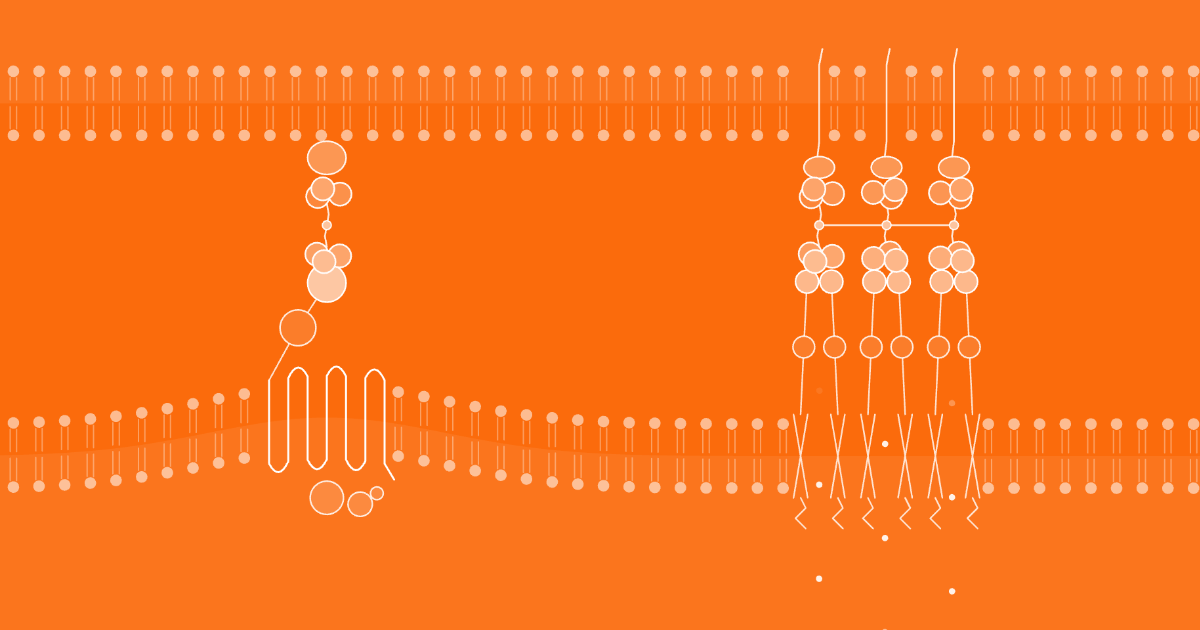
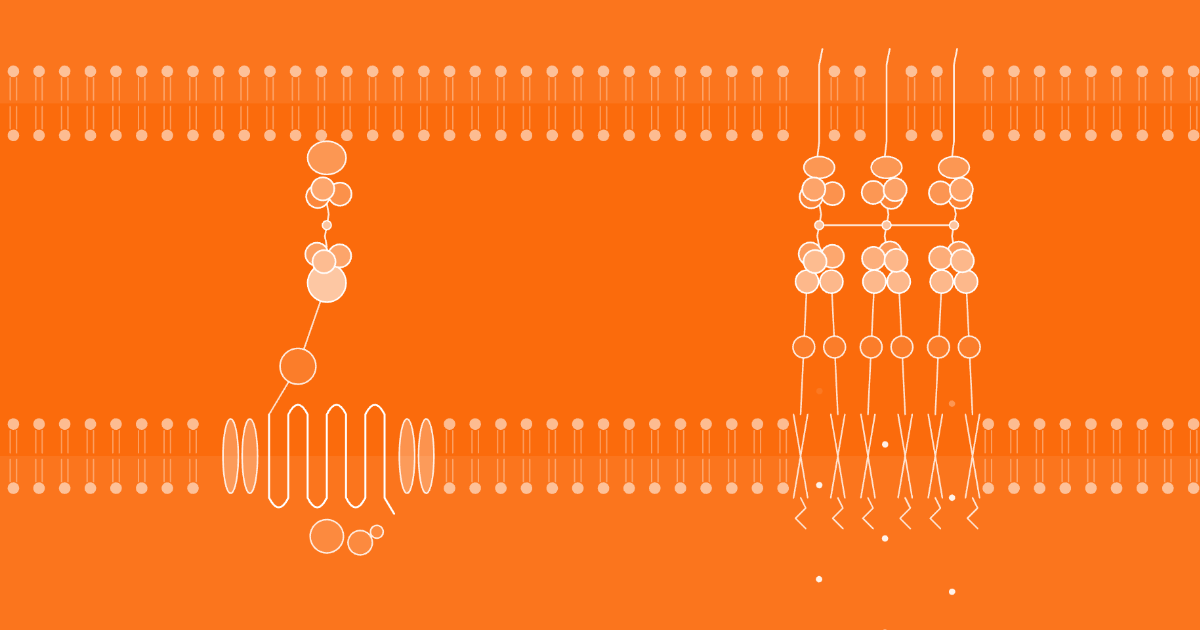
Show the aGPCR aligning the postsynaptic membrane and gathering membrane proteins instead of pulling it.

Changed region(s): [[0.0308, 0.4825, 0.5242, 0.9048]]

diff --git a/index.html b/index.html
@@ -361,7 +361,7 @@
                         <p>Currently, I work on the structure and function of complement component 1q-like (C1QL) proteins, which help neurons in the brain form and maintain the chemical junctions between them. My work in the Ressl lab aims to understand how these proteins assemble into the complexes that engage their receptors which are genetically linked to schizophrenia, bipolar disorder, and addiction. Because so many approved drugs act on this family of receptors, a structural picture of this interaction could point toward new treatments for psychiatric disorders that remain difficult to manage.</p>
                         <figure>
                             <canvas class="figure" data-anim="c1ql" aria-hidden="true"></canvas>
-                            <figcaption><span class="fig-label">Figure 1.</span> <span class="level"><button type="button" data-level="plain" aria-pressed="true">plain</button> / <button type="button" data-level="tech" aria-pressed="false">technical</button></span> <span class="plain">Left, a close-up of the chemical junction called a synapse boxed at right, where the end of one neuron meets the start of another. <span class="cue" data-cue="c1ql-ligand">C1QL proteins freely exist in the junction and anchor both sides of the junction through velcro proteins.</span> <span class="cue" data-cue="c1ql-receptor">One side binds to a cell surface receptor on the receiving side</span> <span class="cue" data-cue="c1ql-synapse">and pulls the two sides of the junction closer together, while its other side holds onto velcro proteins on the sending side.</span> <span class="cue" data-cue="c1ql-iglur">Other C1QL proteins are captured by a different set of velcro proteins and bind ion channels on the receiving side to form the chemical junction.</span> <span class="cue" data-cue="c1ql-ions">When these channels open, they conduct ions to allow signals to pass between neurons.</span> The receptor that C1QL proteins bind to on the left belongs to a superfamily that is the target of roughly a third of approved drugs.</span><span class="tech">Left, a close-up of the synapse boxed at right, where an axon terminal of one neuron meets a dendritic spine of another. <span class="cue" data-cue="c1ql-ligand">C1QL trimers pair into hexamers that are secreted into the synaptic cleft and anchor to the presynaptic membrane.</span> <span class="cue" data-cue="c1ql-receptor">One binds the N-terminal domain of an adhesion G protein-coupled receptor (aGPCR)</span> <span class="cue" data-cue="c1ql-synapse">and pulls the postsynaptic membrane closer, while its other end is held presynaptically by a neurexin or pentraxin.</span> <span class="cue" data-cue="c1ql-iglur">Others are captured by presynaptic neurexin-3 and bind kainate receptors (KARs), tetrameric ionotropic glutamate receptors, then link into higher-order assemblies (here an 18-mer) that cluster KARs at the synapse;</span> <span class="cue" data-cue="c1ql-ions">these channels open on glutamate binding and conduct monovalent cations (Na⁺ flowing in, K⁺ flowing out) and, in some subunit forms, divalent Ca²⁺.</span> aGPCRs belong to the G protein-coupled receptor superfamily, the target of roughly a third of approved drugs.</span></figcaption>
+                            <figcaption><span class="fig-label">Figure 1.</span> <span class="level"><button type="button" data-level="plain" aria-pressed="true">plain</button> / <button type="button" data-level="tech" aria-pressed="false">technical</button></span> <span class="plain">Left, a close-up of the chemical junction called a synapse boxed at right, where the end of one neuron meets the start of another. <span class="cue" data-cue="c1ql-ligand">C1QL proteins freely exist in the junction and anchor both sides of the junction through velcro proteins.</span> <span class="cue" data-cue="c1ql-receptor">One side binds to a cell surface receptor on the receiving side,</span> <span class="cue" data-cue="c1ql-synapse">lining the two sides of the junction up and gathering other proteins around the receptor, while its other side holds onto velcro proteins on the sending side.</span> <span class="cue" data-cue="c1ql-iglur">Other C1QL proteins are captured by a different set of velcro proteins and bind ion channels on the receiving side to form the chemical junction.</span> <span class="cue" data-cue="c1ql-ions">When these channels open, they conduct ions to allow signals to pass between neurons.</span> The receptor that C1QL proteins bind to on the left belongs to a superfamily that is the target of roughly a third of approved drugs.</span><span class="tech">Left, a close-up of the synapse boxed at right, where an axon terminal of one neuron meets a dendritic spine of another. <span class="cue" data-cue="c1ql-ligand">C1QL trimers pair into hexamers that are secreted into the synaptic cleft and anchor to the presynaptic membrane.</span> <span class="cue" data-cue="c1ql-receptor">One binds the N-terminal domain of an adhesion G protein-coupled receptor (aGPCR),</span> <span class="cue" data-cue="c1ql-synapse">aligning the postsynaptic membrane with the presynaptic membrane and organizing the proteins around the receptor, while its other end is held presynaptically by a neurexin or pentraxin.</span> <span class="cue" data-cue="c1ql-iglur">Others are captured by presynaptic neurexin-3 and bind kainate receptors (KARs), tetrameric ionotropic glutamate receptors, then link into higher-order assemblies (here an 18-mer) that cluster KARs at the synapse;</span> <span class="cue" data-cue="c1ql-ions">these channels open on glutamate binding and conduct monovalent cations (Na⁺ flowing in, K⁺ flowing out) and, in some subunit forms, divalent Ca²⁺.</span> aGPCRs belong to the G protein-coupled receptor superfamily, the target of roughly a third of approved drugs.</span></figcaption>
                         </figure>
                     </div>
                     <div class="project">
@@ -540,11 +540,12 @@
             }
 
             // Close-up of a synapse, tied to a zoomed-out view of the two neurons it joins. C1QL hexamers (two trimers joined at
-            // their N-termini) span the cleft: one, held by a neurexin or pentraxin on the presynaptic surface, binds an aGPCR and
-            // pulls the postsynaptic membrane closer; others, captured by presynaptic neurexin-3, bind kainate receptors (KARs) and link
-            // into an 18-mer that clusters them.
+            // their N-termini) span the cleft: one, held by a neurexin or pentraxin on the presynaptic surface, binds an aGPCR,
+            // bringing the whole wavy postsynaptic membrane into register with the presynaptic one and gathering membrane proteins around
+            // the receptor; others, captured by presynaptic neurexin-3, bind kainate receptors (KARs) and link into an 18-mer that
+            // clusters them.
             function c1ql() {
-                const P = 12, pre = [0.05, 0.15], post = [0.6, 0.7], L = 0.06;
+                const P = 12, pre = [0.05, 0.15], post = [0.6, 0.7], amp = 0.026;
                 const dockY = 0.29, x0 = 0.21, step = 0.03, kx = [0.615, 0.72, 0.825];
 
                 // Pivot at the N-terminal junction, with a trimer of globular heads 0.05 out along the axis at each end.
@@ -714,15 +715,22 @@
                             ease(phase(τ, 4.6, 5.8)) * out(9.6, 10.9),
                         ];
                         const grab = ease(phase(τ, 2.1, 2.9)) * out(10.2, 10.7);
-                        const pull = ease(phase(τ, 3.2, 4.6)) * out(9.4, 10.4);
+                        const align = ease(phase(τ, 3.2, 4.2)) * out(9.4, 10.4);
+                        const gather = ease(phase(τ, 3.8, 4.6)) * out(9.4, 10.4);
                         const b1 = phase(τ, 2.8, 3.1) * (1 - phase(τ, 10.1, 10.4));
                         const b2 = phase(τ, 3.9, 4.2) * (1 - phase(τ, 10.1, 10.4));
                         const b3 = phase(τ, 6.1, 6.4) * (1 - phase(τ, 9.4, 9.7));
                         const link = phase(τ, 5.6, 6.0) * (1 - phase(τ, 9.3, 9.6));
                         const cluster = ease(phase(τ, 5.0, 6.3)) * out(9.6, 10.9);
                         const open = phase(τ, 6.4, 6.8) * (1 - phase(τ, 9.0, 9.4));
-                        const liftAt = (x) => L * pull * Math.exp(-(((x - 0.3 + dL) / 0.26) ** 2));
+                        // The postsynaptic membrane undulates until the C1QL bridge at the aGPCR flattens it into register.
+                        const rc = 0.3 - dL;
+                        const liftAt = (x) => amp * (0.6 * Math.sin(7 * x + 0.5 * t) + 0.4 * Math.sin(13 * x - 0.4 * t + 1)) * (1 - align);
                         const lift = (x) => liftAt(x - dL), liftR = (x) => liftAt(x + dL);
+                        // Membrane proteins drift through the postsynaptic membrane, then line up on either side of the aGPCR.
+                        const mp = [[-0.3, -0.15], [-0.19, -0.12], [0.21, 0.125], [0.33, 0.155]].map(
+                            ([from, to], i) => rc + lerp(from + 0.02 * Math.sin(t * 0.5 + 2 * i), to, gather),
+                        );
                         const gx = [
                             lerp(0.5 + 0.012 * Math.sin(t * 0.8), kx[0], cluster),
                             kx[1] + 0.006 * Math.sin(t * 0.7 + 1) * (1 - d[1]),
@@ -732,7 +740,7 @@
                         ctx.translate(off, 0.07);
                         const xs = [];
                         for (let x = 0.025 - Math.ceil(off / 0.04) * 0.04; x < W - off; x += 0.04) xs.push(x);
-                        const busy = [[0.19 - dL, 0.41 - dL], ...gx.map((x) => [x + dL - 0.045, x + dL + 0.045])];
+                        const busy = [[0.19 - dL, 0.41 - dL], ...gx.map((x) => [x + dL - 0.045, x + dL + 0.045]), ...mp.map((x) => [x - 0.022, x + 0.022])];
                         const postXs = xs.filter((x) => !busy.some(([a, b]) => x > a && x < b));
                         const preXs = xs.filter((x) => !nx.some((n) => Math.abs(x - n) < 0.02));
 
@@ -740,8 +748,13 @@
                         lipids(ctx, px, preXs, pre[1], -1);
                         lipids(ctx, px, postXs, post[0], 1, (x) => -liftAt(x));
                         lipids(ctx, px, postXs, post[1], -1, (x) => -liftAt(x));
+                        for (const x of mp) {
+                            ctx.beginPath();
+                            ctx.ellipse(x, (post[0] + post[1]) / 2 - liftAt(x), 0.012, 0.058, 0, 0, TAU);
+                            solid(ctx, 0.12 + 0.15 * gather, 0.85, 1.2 * px);
+                        }
 
-                        // aGPCR: its N-terminal domain reaches up for C1QL, then the membrane follows.
+                        // aGPCR: its N-terminal domain reaches up for C1QL.
                         ctx.save();
                         ctx.translate(-dL, 0);
                         const la = lift(0.3);
